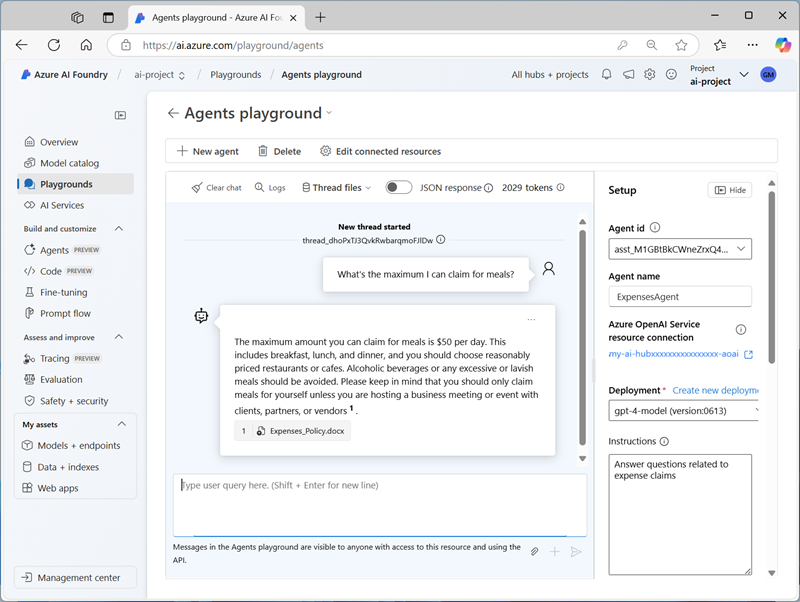
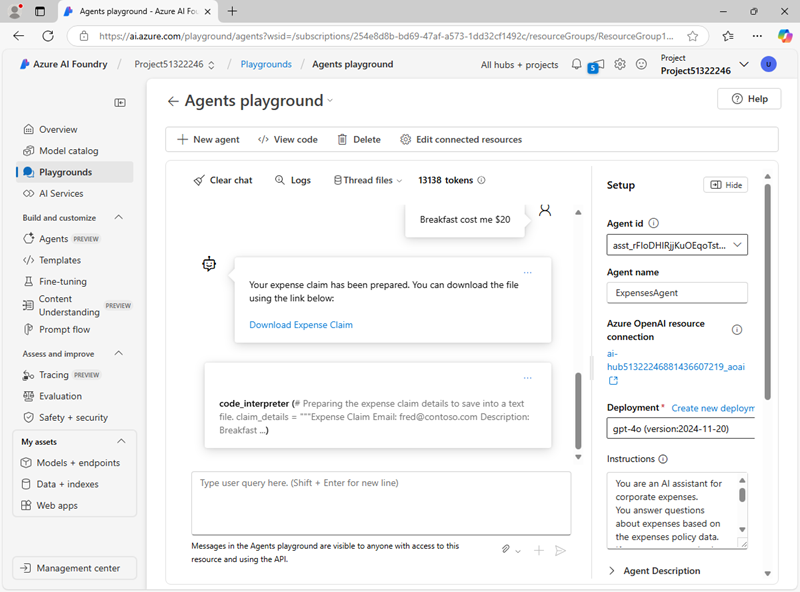
Expanded exercise to incude code interpreter

diff --git a/Instructions/01-agent-fundamentals.md b/Instructions/01-agent-fundamentals.md
@@ -1,12 +1,12 @@
 ---
 lab:
     title: 'Explore AI Agent development'
-    description: 'Take your first steps in developing AI agents by exploring the Azure AI Agent service tools in the Azure AI Foundry portal.'
+    description: 'Take your first steps in developing AI agents by exploring the Azure AI Agent service in the Azure AI Foundry portal.'
 ---
 
 # Explore AI Agent development
 
-In this exercise, you use the Azure AI Agent service tools in the Azure AI Foundry portal to create a simple AI agent that answers questions about expense claims.
+In this exercise, you use the Azure AI Agent service in the Azure AI Foundry portal to create a simple AI agent that assists employees with expense claims.
 
 This exercise takes approximately **30** minutes.
 
@@ -72,7 +72,13 @@ Now that you have a model deployed, you're ready to build an AI agent. In this e
 
     A new agent with a name like *Agent123* should be created automatically (if not, use the **+ New agent** button to create one).
 
-1. Select your new agent. Then, in the **Setup** pane for your new agent, set the **Agent name** to `ExpensesAgent`, ensure that the gpt-4o model deployment you created previously is selected, and set the **Instructions** to `Answer questions related to expense claims`.
+1. Select your new agent. Then, in the **Setup** pane for your new agent, set the **Agent name** to `ExpensesAgent`, ensure that the gpt-4o model deployment you created previously is selected, and set the **Instructions** to:
+
+    ```prompt
+   You are an AI assistant for corporate expenses.
+   You answer questions about expenses based on the expenses policy data.
+   If a user wants to submit an expense claim, you get their email address, a description of the claim, and the amount to be claimed and write the claim details to a text file that the user can download.
+    ```
 
     ![Screenshot of the AI agent setup page in Azure AI Foundry portal.](./Media/ai-agent-setup.png)
 
@@ -83,20 +89,27 @@ Now that you have a model deployed, you're ready to build an AI agent. In this e
 
 1. In the **Setup** pane, in the **Knowledge** section, verify that **Expenses_Vector_Store** is listed and shown as containing 1 file.
 
-    > **Note**: You can also add **Actions** to an agent to automate tasks. In this simple information retrieval agent example, no actions are required.
+1. Below the **Knowledge** section, next to **Actions**, select **+ Add**. Then in the **Add action** dialog box, select **Code interpreter** and then select **Save** (you do not need to upload any files for the code interpreter).
+
+    Your agent will use the document you uploaded as its knowledge source to *ground* its responses (in other words, it will answer questions based on the contents of this document). It will use the code interpreter tool as required to perform actions by generating and running its own Python code.
 
 ## Test your agent
 
 Now that you've created an agent, you can test it in the Azure AI Foundry portal playground.
 
 1. At the top of the **Setup** pane for your agent, select **Try in playground**.
-1. In the playground, enter the prompt `What's the maximum I can claim for meals?` and review the agent's response - which should be based on information in the expenses policy document you added as knowledge to the agent setup.
-
-    ![Screenshot of the Agent Playground in Azure AI Foundry portal.](./Media/ai-agent-playground.png)
+1. In the playground, enter the prompt: `What's the maximum I can claim for meals?` and review the agent's response - which should be based on information in the expenses policy document you added as knowledge to the agent setup.
 
     > **Note**: If the agent fails to respond because the rate limit is exceeded. Wait a few seconds and try again. If there is insufficient quota available in your subscription, the model may not be able to respond.
 
-1. Try a follow-up question, like `What about accommodation?` and review the response.
+1. Try the following follow-up prompt: `I'd like to submit a claim for a meal.` and review the response. The agent should ask you for the required information to submit a claim.
+1. Provide the agent with an email address; for example, `fred@contoso.com`. The agent should acknowledge the response and request the remaining information required for the expense claim (description and amount)
+1. Submit a prompt that describes the claim and the amount; for example, `Breakfast cost me $20`.
+1. The agent should use the code interpreter to prepare the expense claim text file, and provide a link so you can download it.
+
+    ![Screenshot of the Agent Playground in Azure AI Foundry portal.](./Media/ai-agent-playground.png)
+
+1. Download and open the text document to see the expense claim details.
 
 ## Clean up
 
